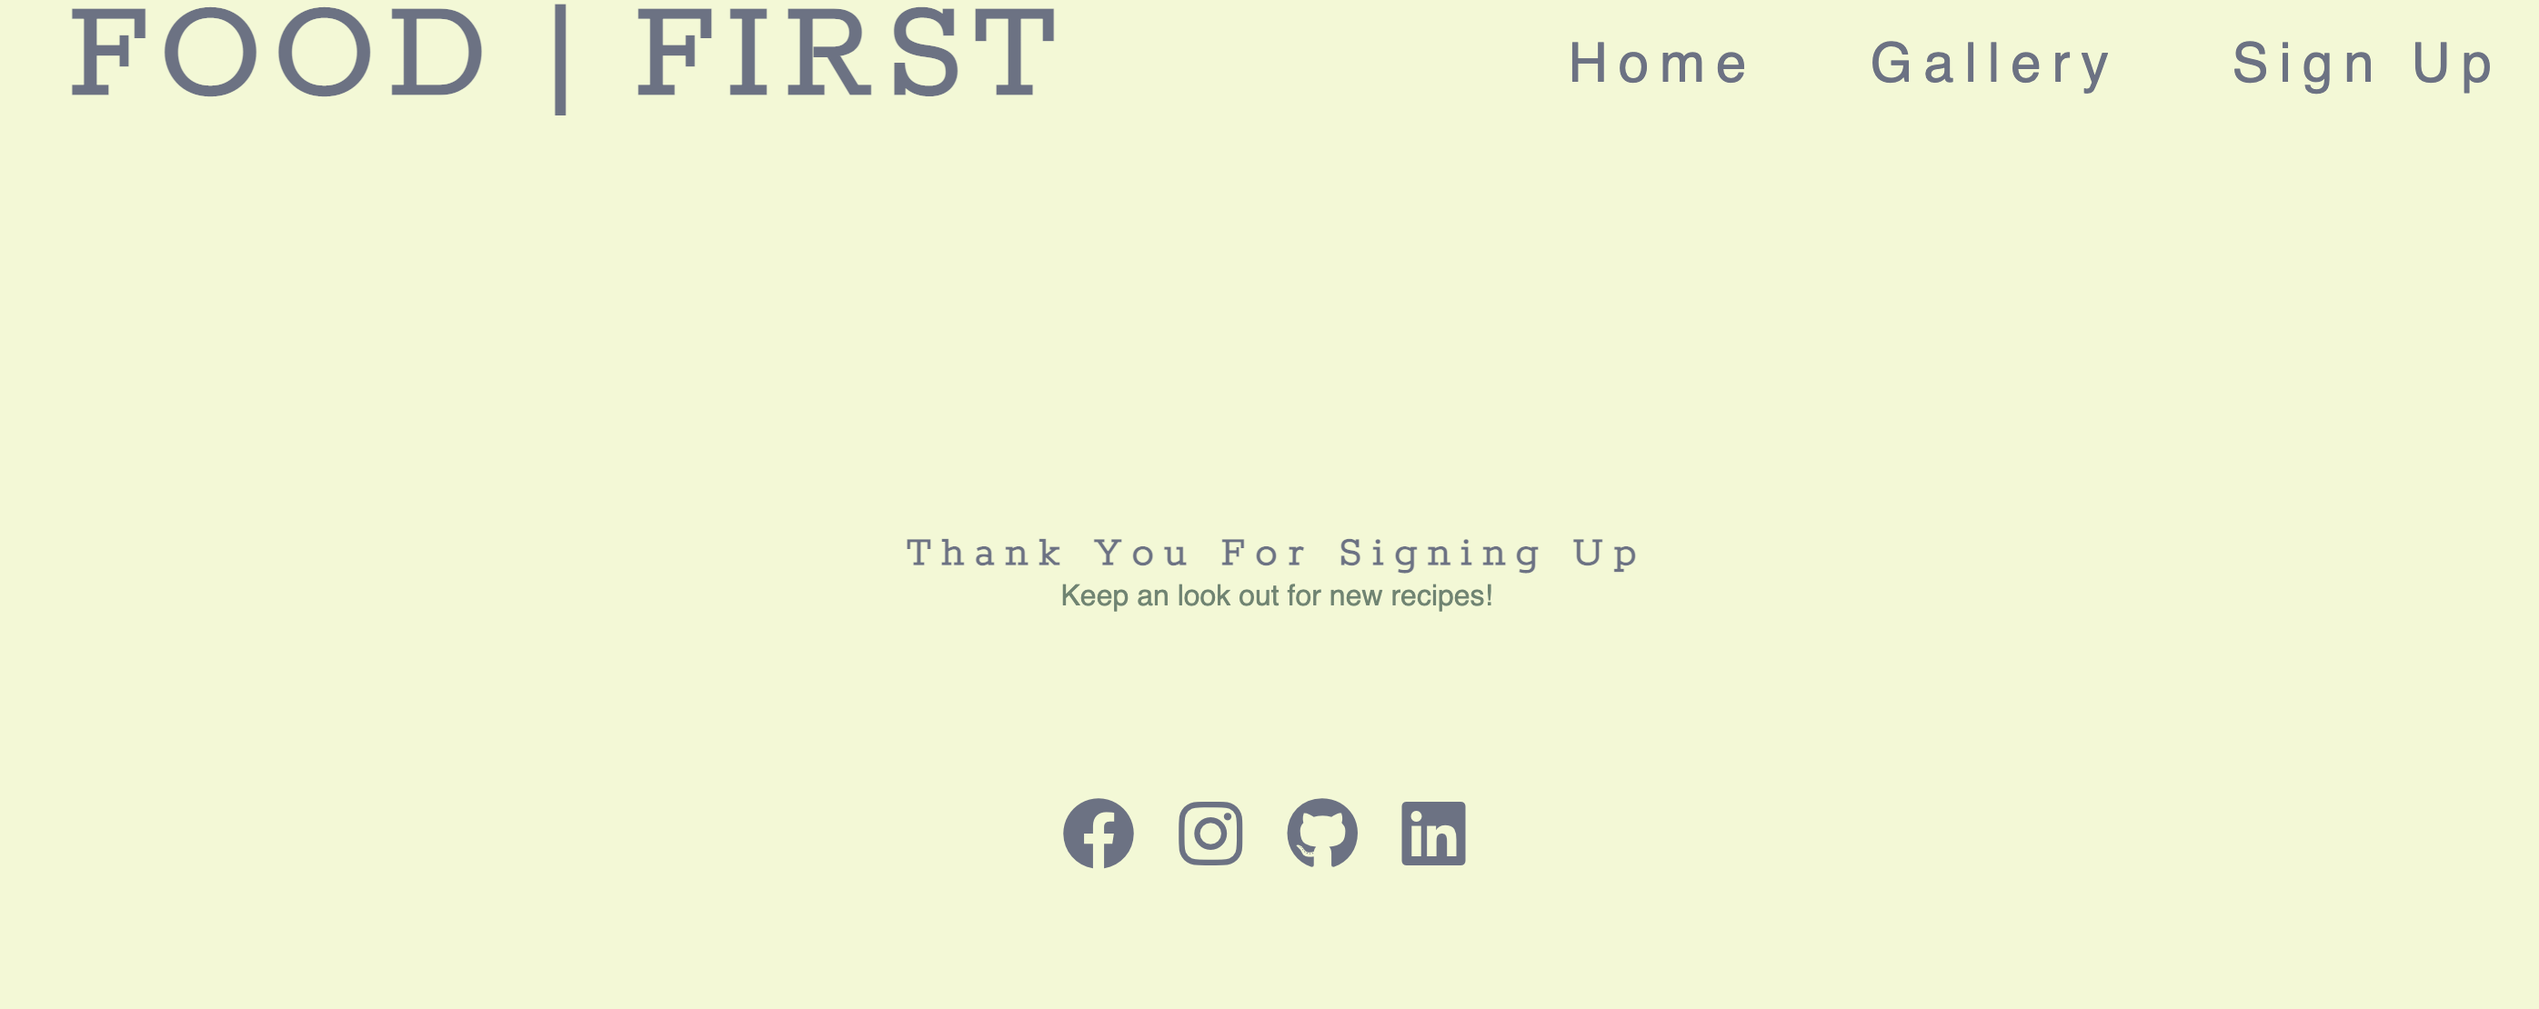
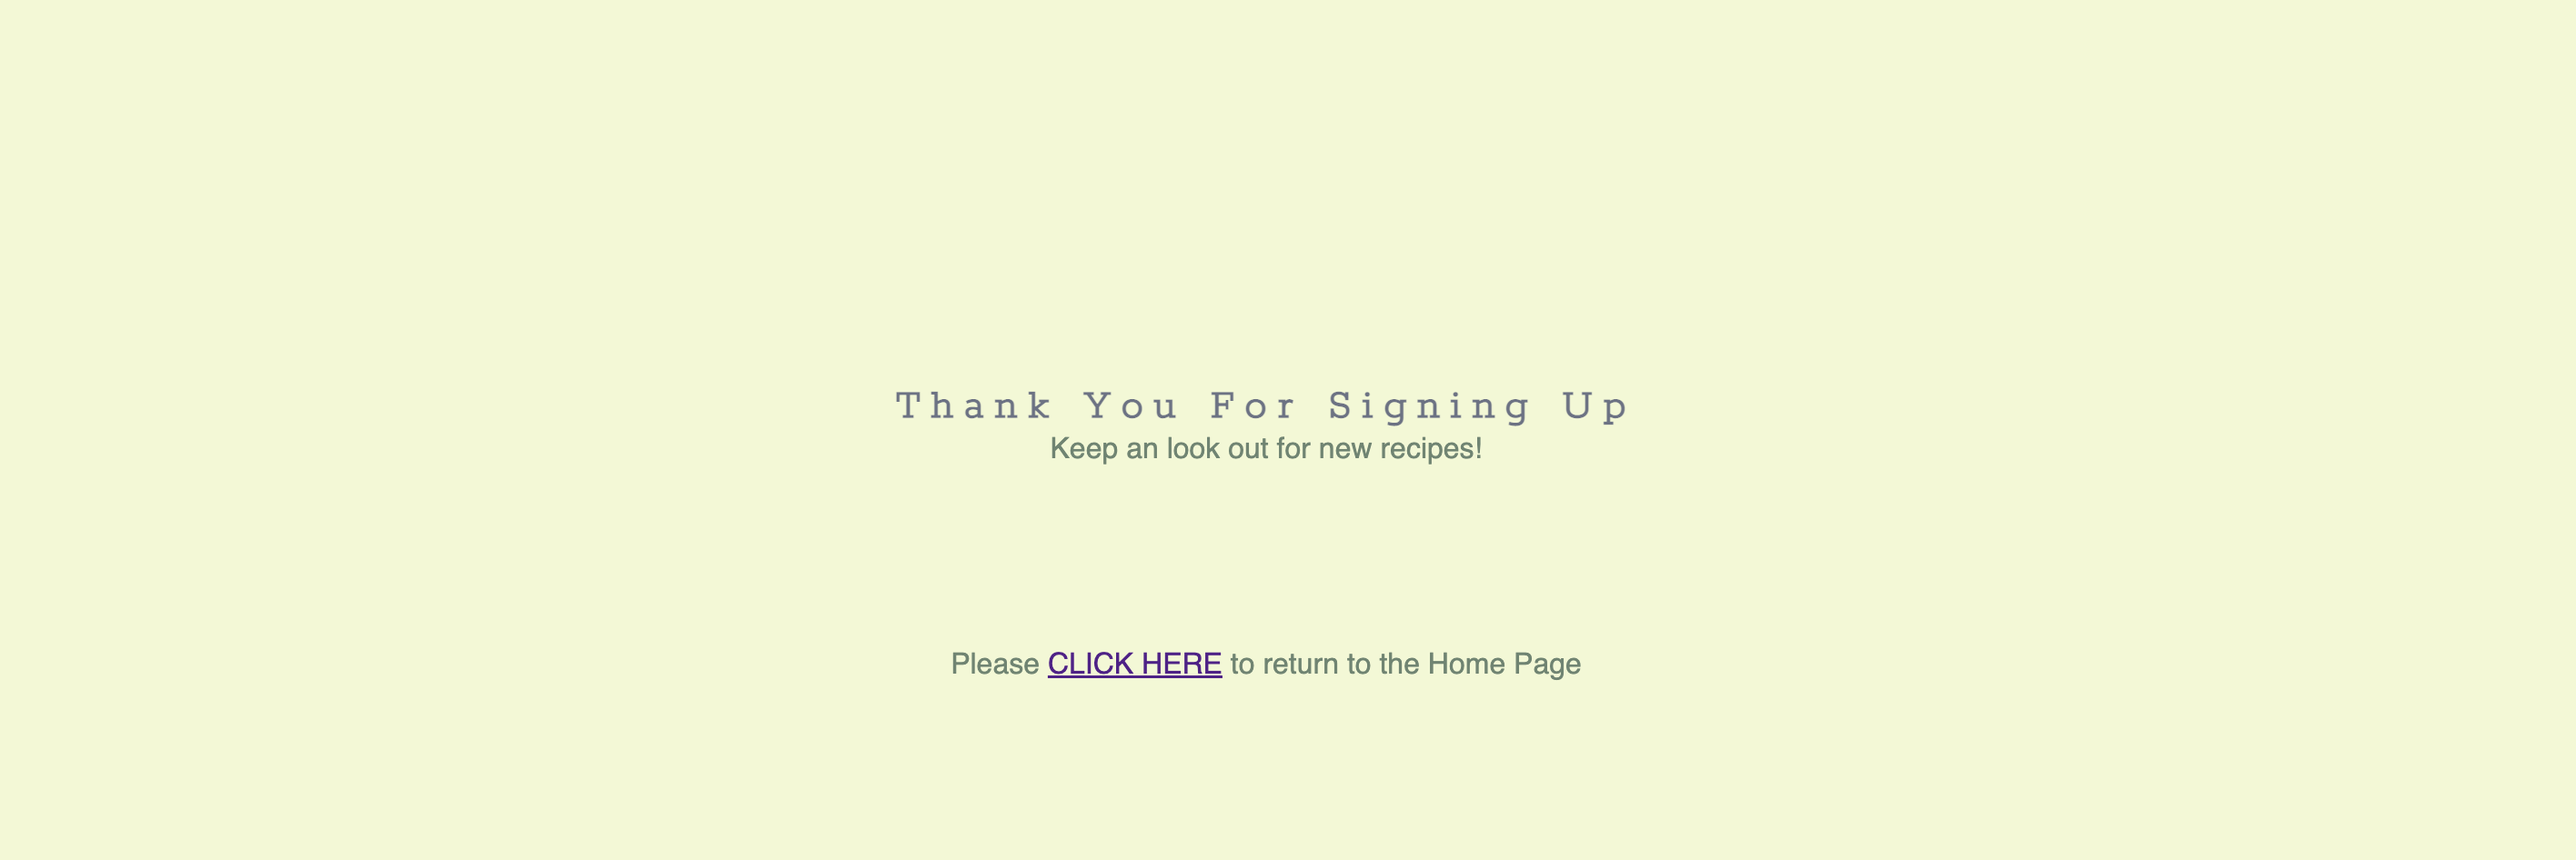
add new confirmation image to README.md

diff --git a/README.md b/README.md
@@ -74,7 +74,7 @@ This page enable the user to sign up to be able to recieve notifications on the 
 <img src="assets/readme.md-images/Sign-up.png">
 
 #### Confirmation
-This is a basic page informing the user that once they have signed up that it is complete.
+This is a basic page informing the user that once they have signed up that it is complete, with the addition of a hyperlink to navigate the user back to the home page.
 
 <img src="assets/readme.md-images/confirmation.png">
 
